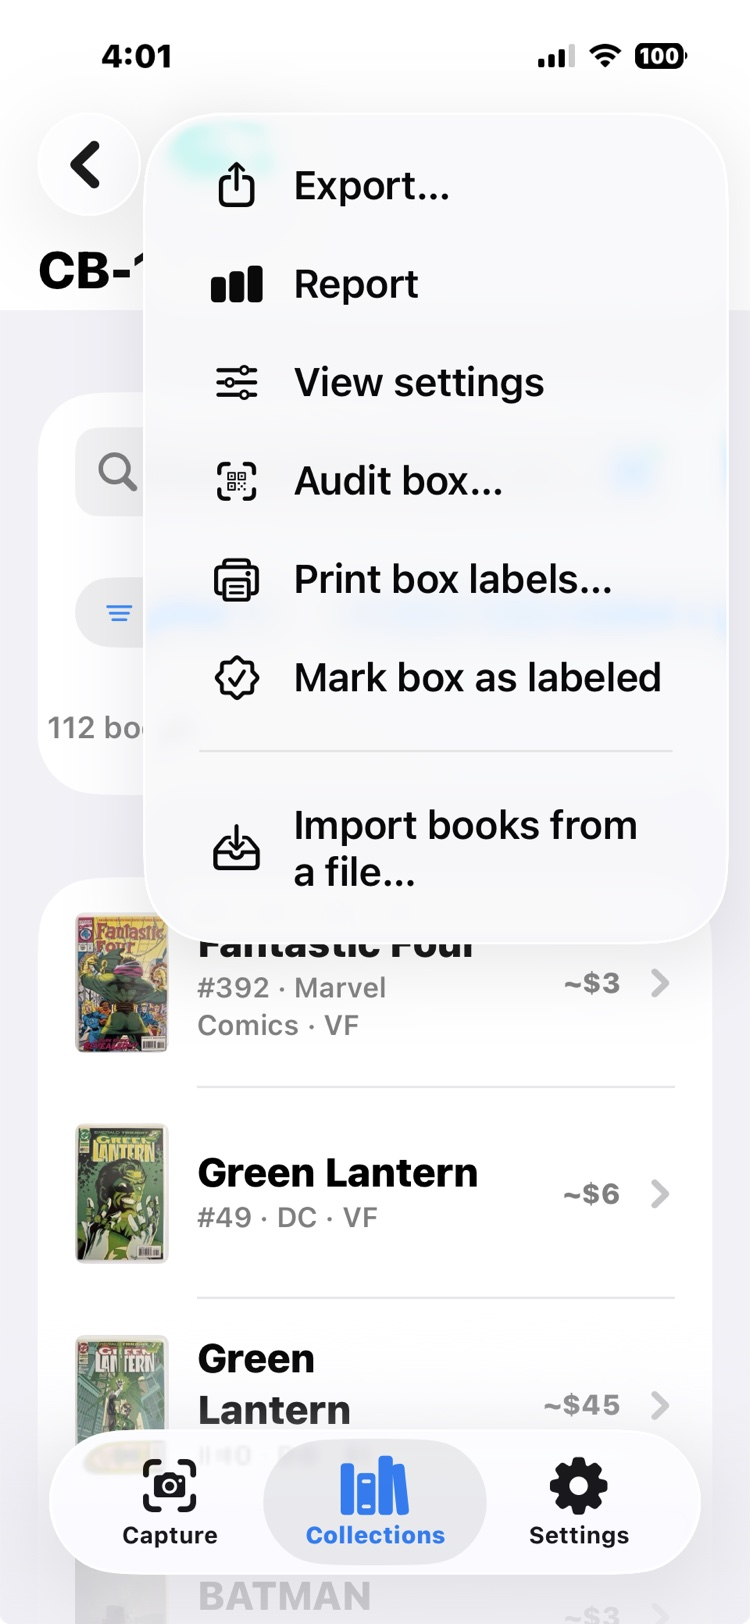
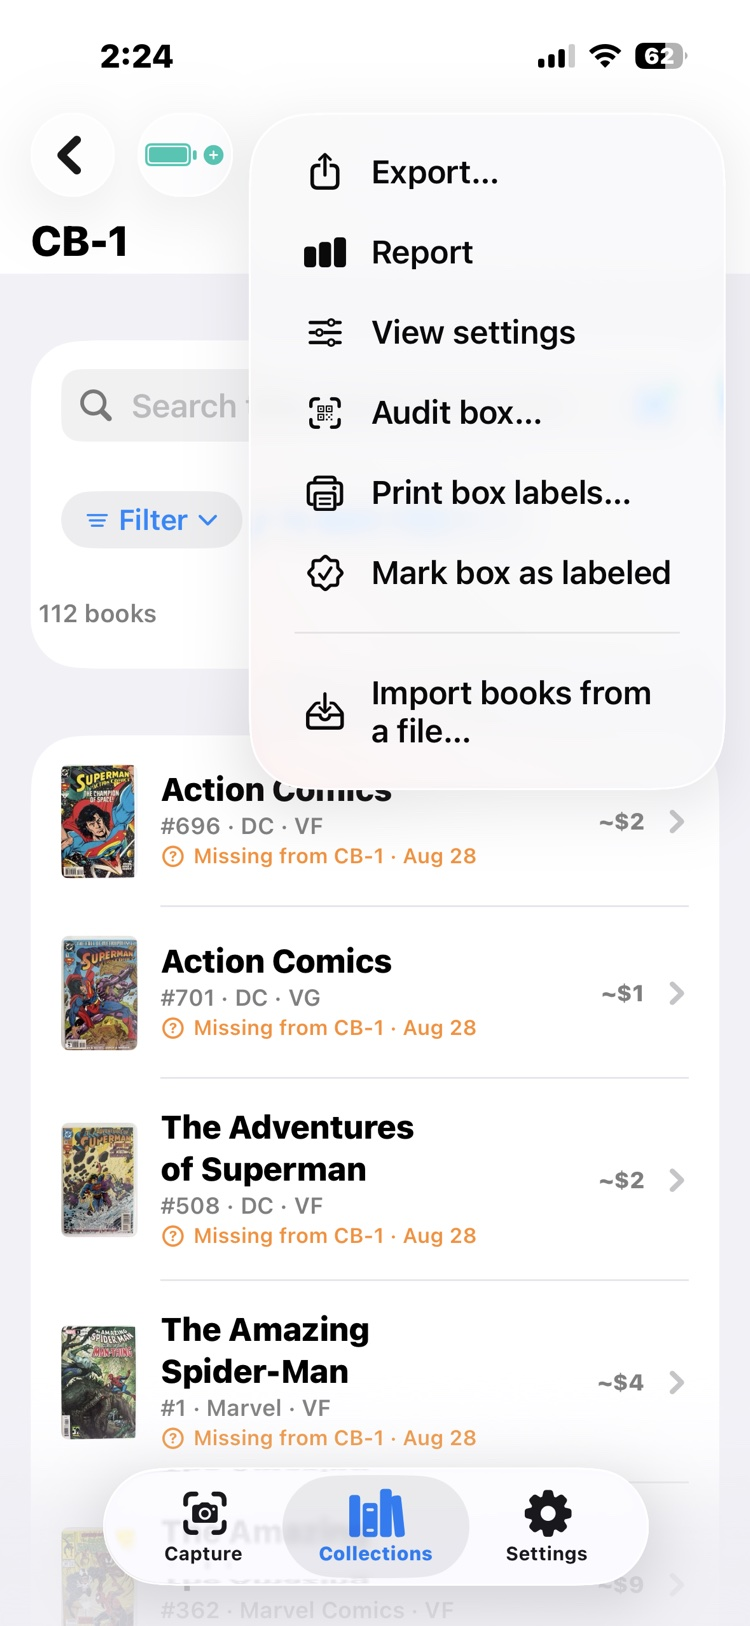
The show comes home to CB-2: 115 confirmed, three missing, one only unlabeled

diff --git a/scenarios/after-the-show.html b/scenarios/after-the-show.html
@@ -193,18 +193,18 @@
       memory of the weekend.</p>
       <div class="phone-strip">
         <figure>
-          <img src="../images/scenarios/after-the-show-1.jpg" width="750" height="1624" loading="lazy"
-               alt="A box screen's menu with Audit box among the actions." />
+          <img src="../images/scenarios/after-the-show-1.jpg" width="750" height="1626" loading="lazy"
+               alt="Box CB-1's menu open over its list, with Audit box among the actions." />
           <figcaption>Every box's menu has the audit.</figcaption>
         </figure>
         <figure>
-          <img src="../images/scenarios/after-the-show-2.jpg" width="750" height="1624" loading="lazy"
-               alt="An audit of box CB-1 mid-scan: the camera reading a Silver Surfer label, with 5 here, 0 arriving, and 107 unseen." />
-          <figcaption>Run the scanner down the box: 5 here, 107 unseen.</figcaption>
+          <img src="../images/scenarios/after-the-show-2.jpg" width="750" height="1626" loading="lazy"
+               alt="An audit of box CB-1 mid-scan: the camera reading a Batman #497 label, with 62 here, 0 arriving, and 50 unseen, and the scanned list below." />
+          <figcaption>Run the scanner down the box: 62 here, 50 unseen.</figcaption>
         </figure>
         <figure>
-          <img src="../images/scenarios/after-the-show-3.jpg" width="750" height="1624" loading="lazy"
-               alt="The audit summary: 5 books confirmed in CB-1, and a Not seen list of 107 books with their short codes." />
+          <img src="../images/scenarios/after-the-show-3.jpg" width="750" height="1626" loading="lazy"
+               alt="The Audit Result: 115 books confirmed in CB-2, a Not seen list of three with their short codes, and a note that 3 books will be added to Inventory Issues." />
           <figcaption>Finish: what's confirmed, and what never got scanned.</figcaption>
         </figure>
       </div>
@@ -221,14 +221,14 @@
           <figcaption>The issues wait in one place, counted.</figcaption>
         </figure>
         <figure>
-          <img src="../images/scenarios/after-the-show-5.jpg" width="750" height="1624" loading="lazy"
-               alt="The Inventory Issues list: books each tagged Missing from CB-1 with the date, with covers, grades, and values." />
+          <img src="../images/scenarios/after-the-show-5.jpg" width="750" height="1626" loading="lazy"
+               alt="The Inventory Issues list: two books, each tagged Missing from CB-2 with the date, with covers, grades, and values." />
           <figcaption>Every discrepancy, named and dated.</figcaption>
         </figure>
         <figure>
-          <img src="../images/scenarios/after-the-show-6.jpg" width="750" height="1624" loading="lazy"
-               alt="Resolving a selected book on the issues list, with actions to clear the issue, undo a sale, mark it sold, or delete it." />
-          <figcaption>Work the list: clear it, mark it sold, or let it go.</figcaption>
+          <img src="../images/scenarios/after-the-show-6.jpg" width="750" height="1626" loading="lazy"
+               alt="Resolving a selected book on the issues list, a Mack Bolan that only lacked a label, with actions to clear the issue, undo a sale, mark it sold, or delete it." />
+          <figcaption>Work the list: clear it (this one only needed a label), mark it sold, or let it go.</figcaption>
         </figure>
       </div>
       <p class="how"><strong>Behind it:</strong> the audit reads the same QR labels the

diff --git a/howto/keeping-inventory-accurate.html b/howto/keeping-inventory-accurate.html
@@ -240,18 +240,18 @@
 
     <div class="phone-strip">
       <figure>
-        <img src="../images/scenarios/after-the-show-2.jpg" width="750" height="1624" loading="lazy"
-             alt="An audit of box CB-1 mid-scan: the camera reading a Silver Surfer label, with 5 here, 0 arriving, and 107 unseen." />
-        <figcaption>Run the scanner down the box: 5 here, 107 unseen.</figcaption>
+        <img src="../images/scenarios/after-the-show-2.jpg" width="750" height="1626" loading="lazy"
+             alt="An audit of box CB-1 mid-scan: the camera reading a Batman #497 label, with 62 here, 0 arriving, and 50 unseen, and the scanned list below." />
+        <figcaption>Run the scanner down the box: 62 here, 50 unseen.</figcaption>
       </figure>
       <figure>
-        <img src="../images/scenarios/after-the-show-3.jpg" width="750" height="1624" loading="lazy"
-             alt="The audit summary: 5 books confirmed in CB-1, and a Not seen list of 107 books with their short codes." />
+        <img src="../images/scenarios/after-the-show-3.jpg" width="750" height="1626" loading="lazy"
+             alt="The Audit Result: 115 books confirmed in CB-2, a Not seen list of three with their short codes, and a note that 3 books will be added to Inventory Issues." />
         <figcaption>Finish: what's confirmed, and what never got scanned.</figcaption>
       </figure>
       <figure>
-        <img src="../images/scenarios/after-the-show-6.jpg" width="750" height="1624" loading="lazy"
-             alt="The inventory issues list with resolution choices: clear an issue, mark the book sold, or record it as gone." />
+        <img src="../images/scenarios/after-the-show-6.jpg" width="750" height="1626" loading="lazy"
+             alt="The inventory issues list with resolution choices on a selected book: clear the issue, undo a sale, mark it sold, or delete it." />
         <figcaption>Work the list: clear it, mark it sold, or let it go.</figcaption>
       </figure>
     </div>

diff --git a/README.md b/README.md
@@ -117,10 +117,10 @@ delete the raw. One copy per picture.
 | File | Pages | What is stale | Shoot |
 |---|---|---|---|
 | `admin-review.jpg` | admin how-to | **Done 2026-09-07**: 1,279 books, consistent titles, the new filter row, the side panel on All-Star Comics #63 | The how-to still has no paragraph on series rows |
-| `after-the-show-1.jpg` | after-the-show scenario | "BATMAN" under "Fantastic Four" and "Green Lantern" | Box menu open over a box list, Audit box visible |
-| `after-the-show-3.jpg` | after-the-show scenario, accuracy how-to | Not-seen list mixes "BATMAN #515" with "Green Lantern #49" | Audit summary on a big box, so the not-seen list is long (the scenario tells a 107-book story) |
-| `after-the-show-5.jpg` | after-the-show scenario | "BATMAN" row at the bottom of the issues list | Inventory Issues list with covers, grades, values |
-| `after-the-show-6.jpg` | after-the-show scenario, accuracy how-to | Every row reads "BATMAN" | The resolve menu (Clear issue, Undo sale, Mark sold, Delete) over a selected issue |
+| `after-the-show-1.jpg` | after-the-show scenario | **Done 2026-09-07** | |
+| `after-the-show-3.jpg` | after-the-show scenario, accuracy how-to | **Done 2026-09-07**: CB-2, 115 confirmed, 3 not seen (and -2 retaken with it) | |
+| `after-the-show-5.jpg` | after-the-show scenario | **Done 2026-09-07** | |
+| `after-the-show-6.jpg` | after-the-show scenario, accuracy how-to | **Done 2026-09-07** | |
 | `ballpark-run-1.jpg` | ballpark how-to | "The Tomb of Dracula" then "THE TOMB OF DRACULA", "Marvel Comics Group" then "MARVEL" | A freshly scanned box, graded, unpriced |
 | `barcoding-1.jpg` | barcoding how-to | "WEREWOLF BY NIGHT" rows behind the menu | Box menu open with Print box labels and Mark box as labeled |
 | `backup-reminder.jpg` | sharing how-to | "WEREWOLF BY NIGHT" above "Werewolf By Night", and a 50,000-book test library | Collections screen with the Backup due banner; a real collection behind it |
